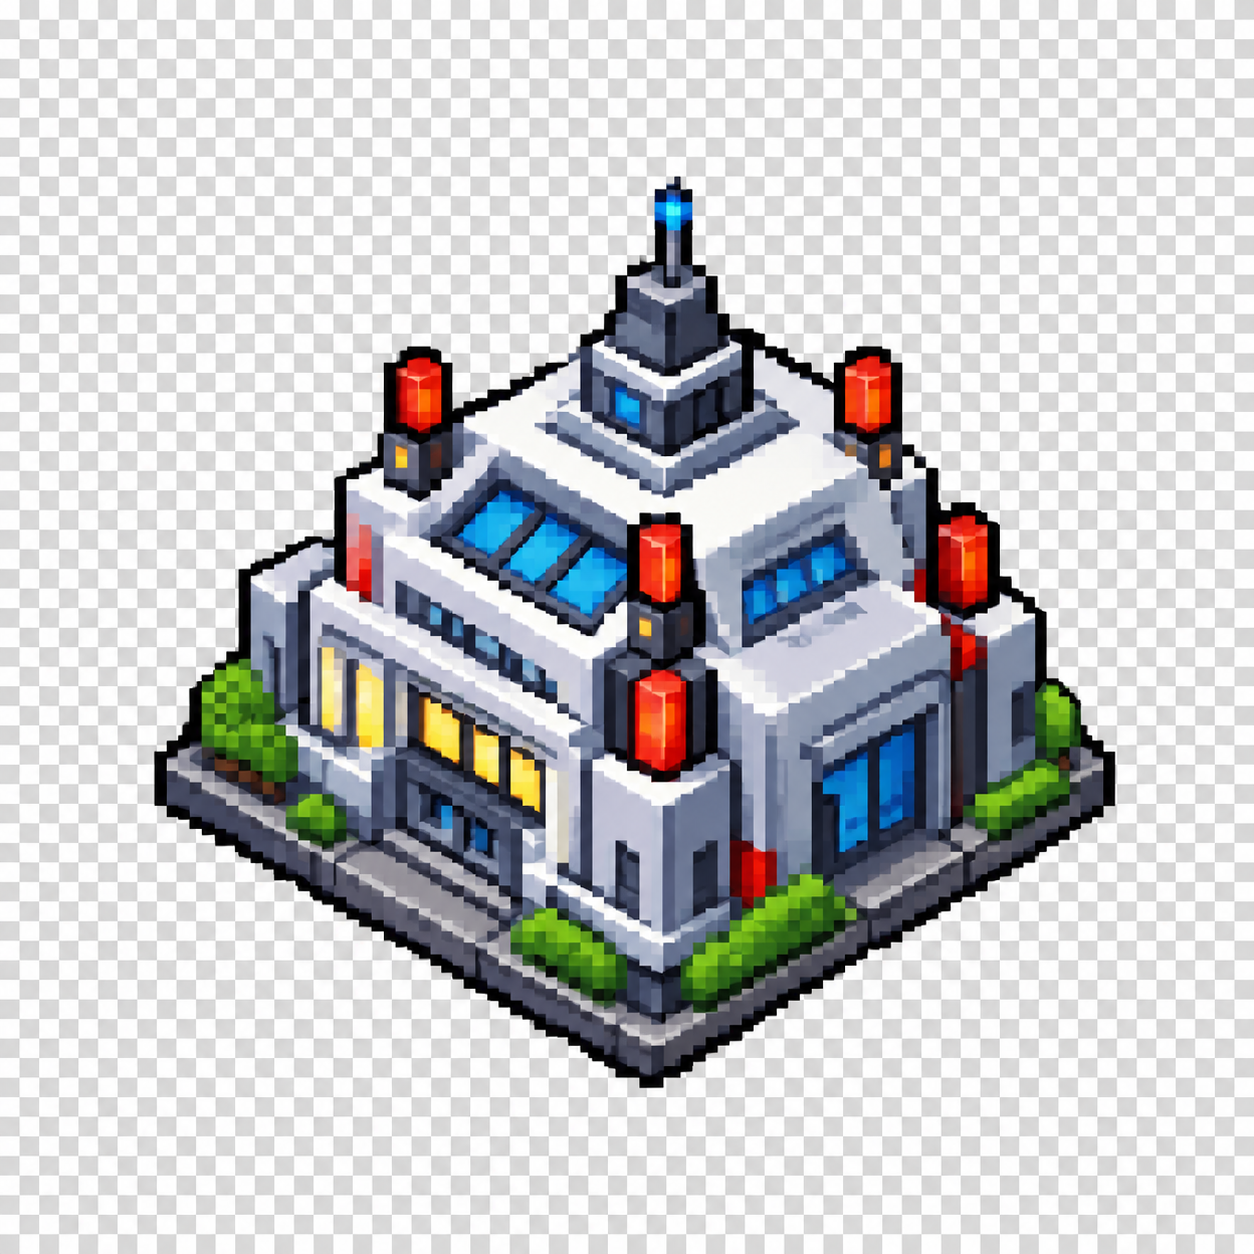
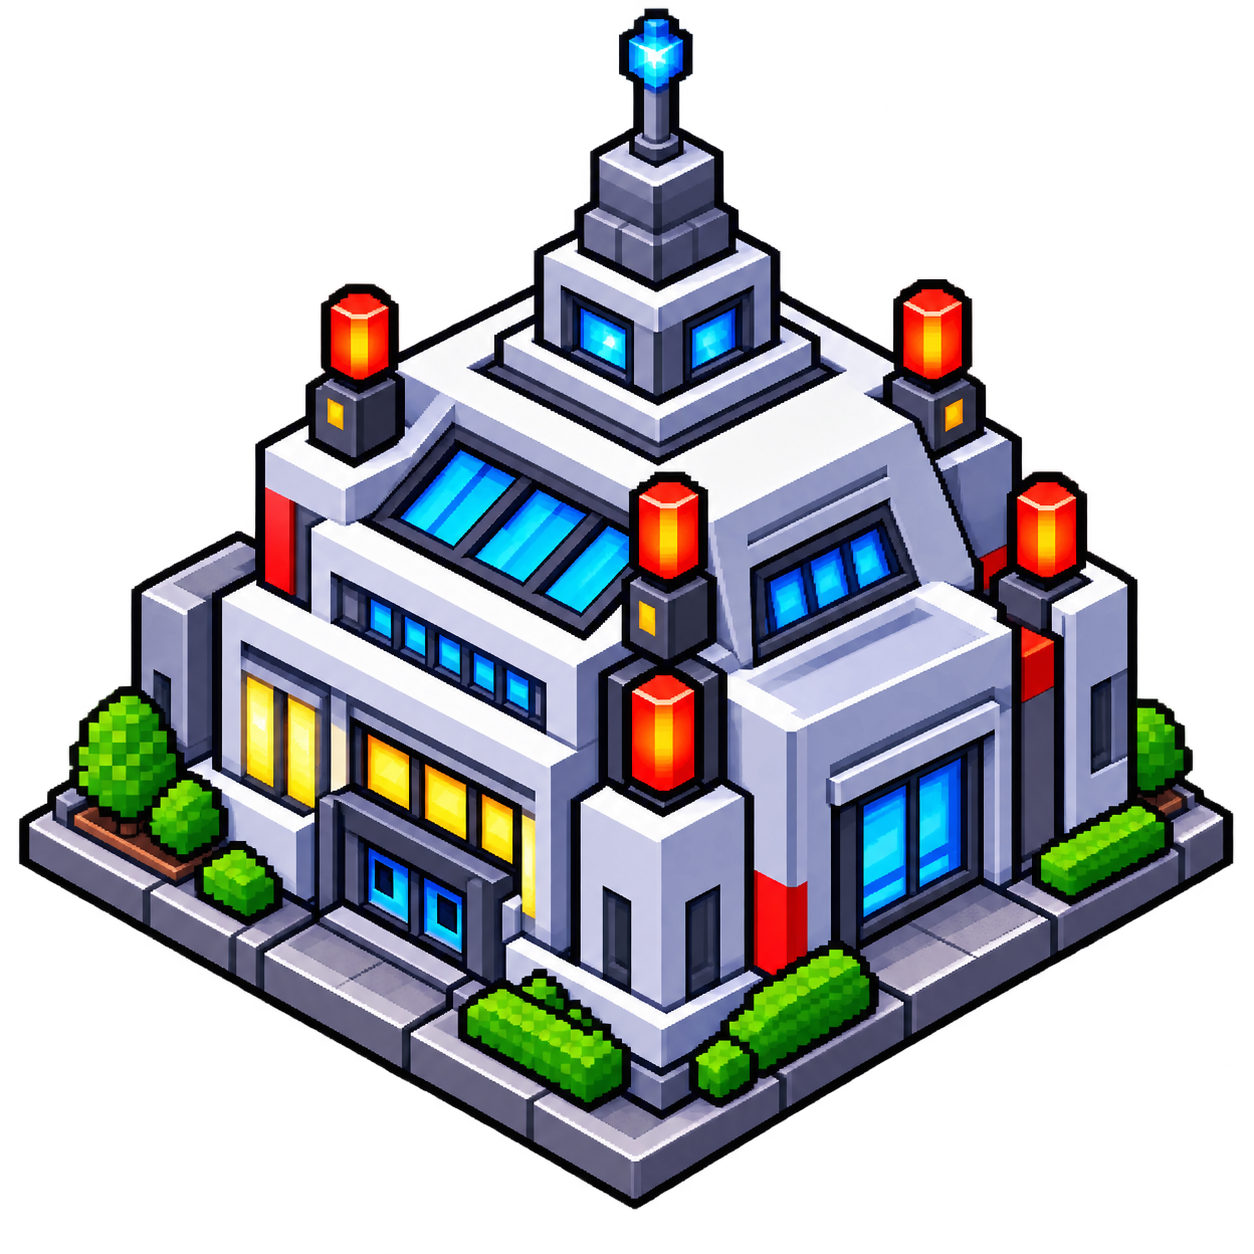
Complete project replacement

diff --git a/spielmodule/boden.py b/spielmodule/boden.py
@@ -67,8 +67,8 @@ def _uebergangs_farbe(typ_index):
 
 def _iso_bild(typ_index, nachbarn=None):
     """Erzeugt eine gecachte rautenfoermige Bodenoberflaeche."""
-    nachbarn = nachbarn or {}
-    cache_schluessel = (typ_index, tuple(sorted(nachbarn.items())))
+    del nachbarn
+    cache_schluessel = typ_index
     if cache_schluessel in _iso_cache:
         return _iso_cache[cache_schluessel]
     bild = _bilder.get(typ_index)
@@ -80,8 +80,31 @@ def _iso_bild(typ_index, nachbarn=None):
     hoehe = iso.ISO_KACHEL_HOEHE
     surface_breite = breite + ISO_UEBERLAPPUNG
     surface_hoehe = hoehe + ISO_UEBERLAPPUNG
+
+    # Die PNG-Dateien enthalten einen kompletten kleinen Wuerfel.
+    # Hier wird nur die obere Diamantfloche aus dem PNG ausgeschnitten.
+    # Damit keine Seitenwaende als neue Wuerfel in die Karte ragen.
+    quelle_breite = bild.get_width()
+    quelle_hoehe = bild.get_height()
+    quelle_punkte = [
+        (quelle_breite // 2, quelle_hoehe // 16),
+        (quelle_breite * 15 // 16, quelle_hoehe // 2),
+        (quelle_breite // 2, quelle_hoehe * 15 // 16),
+        (quelle_breite // 16, quelle_hoehe // 2),
+    ]
+    quelle_maske = pygame.Surface(
+        (quelle_breite, quelle_hoehe), pygame.SRCALPHA)
+    pygame.draw.polygon(
+        quelle_maske, (255, 255, 255, 255), quelle_punkte)
+    ausschnitt = pygame.Surface(
+        (quelle_breite, quelle_hoehe), pygame.SRCALPHA)
+    ausschnitt.blit(bild, (0, 0))
+    for x in range(quelle_breite):
+        for y in range(quelle_hoehe):
+            if quelle_maske.get_at((x, y))[3] == 0:
+                ausschnitt.set_at((x, y), (0, 0, 0, 0))
     bild_klein = pygame.transform.scale(
-        bild, (surface_breite, surface_hoehe))
+        ausschnitt, (surface_breite, surface_hoehe))
     oberflaeche = pygame.Surface(
         (surface_breite, surface_hoehe), pygame.SRCALPHA)
     oberflaeche.blit(bild_klein, (0, 0))
@@ -99,29 +122,6 @@ def _iso_bild(typ_index, nachbarn=None):
         for y in range(surface_hoehe):
             if maske.get_at((x, y))[3] == 0:
                 oberflaeche.set_at((x, y), (0, 0, 0, 0))
-    for richtung, anderer_typ in sorted(nachbarn.items()):
-        andere_farbe = _uebergangs_farbe(anderer_typ)
-        if andere_farbe is None:
-            continue
-        if richtung == "unten":
-            pygame.draw.line(
-                oberflaeche, andere_farbe,
-                (surface_breite // 2, surface_hoehe - 7),
-                (surface_breite // 2 + surface_breite // 4,
-                 surface_hoehe - 7 - surface_hoehe // 8),
-                4)
-        elif richtung == "links":
-            pygame.draw.line(
-                oberflaeche, andere_farbe,
-                (surface_breite // 4, surface_hoehe // 2),
-                (surface_breite // 2, surface_hoehe - 7),
-                4)
-        elif richtung == "rechts":
-            pygame.draw.line(
-                oberflaeche, andere_farbe,
-                (surface_breite // 2, surface_hoehe - 7),
-                (surface_breite * 3 // 4, surface_hoehe // 2),
-                4)
     _iso_cache[cache_schluessel] = oberflaeche
     return oberflaeche
 
@@ -145,44 +145,6 @@ def _2d_zeichnen(karten_daten, gitter_an, erste_spalte, letzte_spalte,
                 bild_klein = pygame.transform.scale(
                     bild, (_kachel_groesse + 2, _kachel_groesse + 2))
                 _fenster.blit(bild_klein, (pixel_x - 1, pixel_y - 1))
-                typ_index = karten_daten[zeile][spalte]
-                nachbarn = {
-                    "oben": karten_daten[zeile - 1][spalte]
-                    if zeile > 0 else typ_index,
-                    "unten": karten_daten[zeile + 1][spalte]
-                    if zeile + 1 < len(karten_daten) else typ_index,
-                    "links": karten_daten[zeile][spalte - 1]
-                    if spalte > 0 else typ_index,
-                    "rechts": karten_daten[zeile][spalte + 1]
-                    if spalte + 1 < len(karten_daten[zeile]) else typ_index,
-                }
-                streifen = 3
-                for richtung, anderer_typ in nachbarn.items():
-                    if anderer_typ == typ_index:
-                        continue
-                    farbe = _uebergangs_farbe(anderer_typ)
-                    if richtung == "oben":
-                        pygame.draw.rect(
-                            _fenster, farbe,
-                            (pixel_x - 1, pixel_y - 1,
-                             _kachel_groesse + 2, streifen))
-                    elif richtung == "unten":
-                        pygame.draw.rect(
-                            _fenster, farbe,
-                            (pixel_x - 1,
-                             pixel_y + _kachel_groesse - streifen,
-                             _kachel_groesse + 2, streifen))
-                    elif richtung == "links":
-                        pygame.draw.rect(
-                            _fenster, farbe,
-                            (pixel_x - 1, pixel_y - 1,
-                             streifen, _kachel_groesse + 2))
-                    elif richtung == "rechts":
-                        pygame.draw.rect(
-                            _fenster, farbe,
-                            (pixel_x + _kachel_groesse - streifen,
-                             pixel_y - 1,
-                             streifen, _kachel_groesse + 2))
             else:
                 pygame.draw.rect(
                     _fenster,

diff --git a/main.py b/main.py
@@ -242,34 +242,6 @@ FARBE_WEISS         = (255, 255, 255)    # Für Texte und helle Sterne
 FARBE_GELB_STERN    = (255, 240, 200)    # Warme Sterne
 FARBE_BLAU_STERN    = (200, 220, 255)    # Blaue Sterne
 
-# ── Farben — Planeten-Oberfläche (wie Final Earth 2) ──────────────────────
-# Auf einem fremden Planeten gibt es verschiedene Bodenarten.
-# Jede Bodenart hat eine eigene Farbe — wie in Final Earth 2!
-# Hellbraun — normaler Erdboden (der häufigste Untergrund)
-FARBE_ERDE_HELL     = (160, 140, 110)
-# Dunkelbraun — fruchtbare Erde (gut für Pflanzen)
-FARBE_ERDE_DUNKEL   = (130, 110, 80)
-# Grün — Grasfläche (kommt später für Gebäude)
-FARBE_GRAS          = (100, 160, 80)
-# Dunkelgrau — Gestein / Felsen (schwer zu bearbeiten)
-FARBE_GESTEIN       = (90,  90,  95)
-# Sandfarbe — Wüstenfläche (wie in Final Earth 2)
-FARBE_SAND          = (195, 185, 150)
-
-# ── Farben — Gitterlinien ───────────────────────────────────────────────────
-# Die Gitternetz-Linien zwischen den Kacheln.
-# In Final Earth 2 siehst du ein feines Gitter auf der Oberfläche.
-FARBE_GITTER       = (60, 55, 50)       # Dunkle Gitterlinien
-
-# ── Ansicht: 2D oder isometrisch ────────────────────────────────────────────
-# True = Rauten-Ansicht (3D-Effekt wie OpenTTD), False = alte Rechtecke.
-# Zum Vergleichen im Unterricht einfach umschalten und neu starten.
-ISO_ANSICHT = True
-ERDWAND_HOEHE = 14   # So hoch ist die Erdwand an der Vorderkante (in Pixeln)
-# So dick und hell ist die Umrandung um die ganze Karte (Iso).
-FARBE_KARTENRAND = (90, 110, 140)
-KARTENRAND_DICKE = 2
-
 # ── Farben — Text und HUD ──────────────────────────────────────────────────
 # In Final Earth 2 gibt es eine Anzeige mit Informationen.
 FARBE_TEXT_HELL     = (220, 220, 220)   # Helles Grau für Text
@@ -709,25 +681,6 @@ FARBE_SCHWARZ       = (0,   0,   0  )    # Reines Schwarz — der Weltraum
 FARBE_WEISS         = (255, 255, 255)    # Für Texte und helle Sterne
 FARBE_GELB_STERN    = (255, 240, 200)    # Warme Sterne
 FARBE_BLAU_STERN    = (200, 220, 255)    # Blaue Sterne
-
-# ── Farben — Planeten-Oberfläche (wie Final Earth 2) ──────────────────────
-# Auf einem fremden Planeten gibt es verschiedene Bodenarten.
-# Jede Bodenart hat eine eigene Farbe — wie in Final Earth 2!
-# Hellbraun — normaler Erdboden (der häufigste Untergrund)
-FARBE_ERDE_HELL     = (160, 140, 110)
-# Dunkelbraun — fruchtbare Erde (gut für Pflanzen)
-FARBE_ERDE_DUNKEL   = (130, 110, 80)
-# Grün — Grasfläche (kommt später für Gebäude)
-FARBE_GRAS          = (100, 160, 80)
-# Dunkelgrau — Gestein / Felsen (schwer zu bearbeiten)
-FARBE_GESTEIN       = (90,  90,  95)
-# Sandfarbe — Wüstenfläche (wie in Final Earth 2)
-FARBE_SAND          = (195, 185, 150)
-
-# ── Farben — Gitterlinien ───────────────────────────────────────────────────
-# Die Gitternetz-Linien zwischen den Kacheln.
-# In Final Earth 2 siehst du ein feines Gitter auf der Oberfläche.
-FARBE_GITTER       = (60, 55, 50)       # Dunkle Gitterlinien
 
 # ── Ansicht: 2D oder isometrisch ────────────────────────────────────────────
 # True = Rauten-Ansicht (3D-Effekt wie OpenTTD), False = alte Rechtecke.

diff --git a/tests/test_boden.py b/tests/test_boden.py
@@ -24,7 +24,10 @@ boden.initialisieren(fenster, 48)
 assert boden.BODEN_FARBEN[0] == (160, 140, 110)
 assert boden.BODEN_FARBEN[1] == (100, 160, 80)
 assert boden.ISO_UEBERLAPPUNG == 2
-assert boden._uebergangs_farbe(1) == (127, 177, 111)
+raute = boden._iso_bild(1)
+assert raute is not None
+assert raute.get_width() == 98
+assert raute.get_height() == 50
 
 karte = [
     [0, 1, 2, 3],
